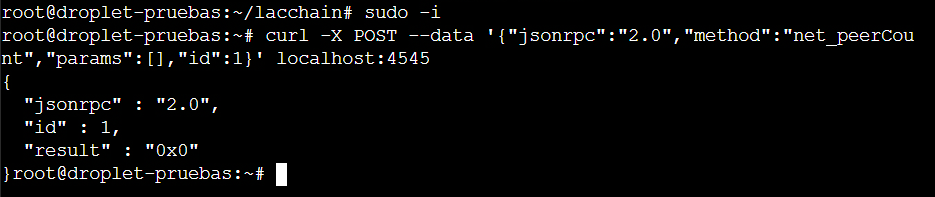
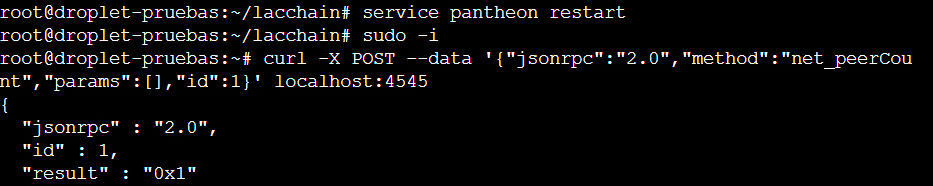
Despliege-de-nodo-local-con-Lacchain

diff --git a/README.md b/README.md
@@ -12,8 +12,14 @@
   - [Configuración de nodo](#configuración-de-nodo)
     - [Iniciar nodo](#iniciar-nodo) 
     - [Comprobando conexión](#comprobando-conexión)
+    - [Herramientas de monitoreo](#herramientas-de-monitoreo)
 - [Implementar contratos inteligentes](#implementar-contratos-inteligentes)
-- [Desarrollo con herramienta Firefly](#desarrollo-con-herramienta-firefly)
+  - [Ejecutar el componente de retransmisor](#ejecutar-el-componente-de-retransmisor)
+  - [Truffle como entorno de desarrollo](#truffle-como-entorno-de-desarrollo)
+    - [Compilación de contratos](#compilación-de-contratos)
+    - [Compilación de contratos](#compilación-de-contratos)
+- [Consideraciones para red principal y Firefly](#consideraciones-para-red-principal-y-firefly)
+
 
 
 # Despliege de nodo local con Lacchain
@@ -38,9 +44,13 @@ Para este proceso se tiene en cuenta la Guía oficial de LACNet para Instalar un
 Para esta instalación se requiere Ansible. Ansible es una herramienta open source que automatiza los procesos informáticos para preparar la infraestructura, gestionar la configuración, implementar las aplicaciones y organizar los sistemas, entre otros procedimientos manuales de TI. Es necesario instalar Ansible en un máquina local que realizará la instalación del nodo en una máquina remota.
 
 `$ sudo apt-get update`
+
 `$ sudo apt-get install software-properties-common`
+
 `$ sudo apt-add-repository ppa:ansible/ansible`
+
 `$ sudo apt-get update`
+
 `$ sudo apt-get install ansible`
 
 [![3](https://github.com/rozoandrescamilo/Despliege-de-nodo-local-con-Lacchain/blob/main/img/3.png?raw=true "3")](https://github.com/Despliege-de-nodo-local-con-Lacchain/blob/main/img/3.png?raw=true "3")
@@ -52,6 +62,7 @@ Para esta instalación se requiere Ansible. Ansible es una herramienta open sour
 Para configurar e instalar un nodo LACChain, se debe clonar este repositorio git en la máquina local:
 
 `$ git clone https://github.com/LACNet-Networks/besu-networks`
+
 `$ cd besu-networks/`
 
 [![5](https://github.com/rozoandrescamilo/Despliege-de-nodo-local-con-Lacchain/blob/main/img/5.png?raw=true "5")](https://github.com/Despliege-de-nodo-local-con-Lacchain/blob/main/img/5.png?raw=true "5")
@@ -71,9 +82,13 @@ Se requiere tener acceso SSH a la máquina remota donde va a implementar el nodo
 Hay tres tipos de nodos LACChain ( validator, bootnode y escritor ) que se pueden crear en las redes LACChain orquestadas por LACNet en este momento. Después de clonar el repositorio en la máquina local, crear una copia de “inventory.example" archivar y guardarlo como “inventory". Editar este archivo para agregar una línea para el servidor remoto donde está creando el nuevo nodo. Puede hacerlo con una herramienta gráfica o dentro del shell.
 
 `$ cd besu-networks/`
+
 `$ cp inventory.example inventory`
+
 `$ vi inventory`
+
 `[node]`
+
 `192.168.10.72 node_ip=your.public.node.ip node_name=my_node_name node_email=your@email`
 
 [![7](https://github.com/rozoandrescamilo/Despliege-de-nodo-local-con-Lacchain/blob/main/img/7.png?raw=true "7")](https://github.com/Despliege-de-nodo-local-con-Lacchain/blob/main/img/7.png?raw=true "7")
@@ -117,6 +132,7 @@ Dirección enode registrada:
 Al finalizar todas la tareas con exito se necesita proporcionar la dirección de nodo. Se consígue ejecutando lo siguiente linea:
 
 `$ cd /root/lacchain/data`
+
 `$ cat nodeAddress`
 
 [![10](https://github.com/rozoandrescamilo/Despliege-de-nodo-local-con-Lacchain/blob/main/img/10.png?raw=true "10")](https://github.com/Despliege-de-nodo-local-con-Lacchain/blob/main/img/10.png?raw=true "10")
@@ -146,6 +162,7 @@ Si se necesita reiniciar los servicios, se puede ejecutar los siguientes comando
 Para verificar si el nodo está conectado a la red correctamente. Verifique que el nodo haya establecido las conexiones con los pares:
 
 `$ sudo -i`
+
 `$ curl -X POST --data '{"jsonrpc":"2.0","method":"net_peerCount","params":[],"id":1}' localhost:4545`
 
 
@@ -155,28 +172,194 @@ Ahora puede verificar si el nodo está sincronizando bloques obteniendo el regis
 
 `$ tail -100 /root/lacchain/logs/pantheon_info.log`
 
+[![13](https://github.com/rozoandrescamilo/Despliege-de-nodo-local-con-Lacchain/blob/main/img/13.png?raw=true "13")](https://github.com/Despliege-de-nodo-local-con-Lacchain/blob/main/img/13.png?raw=true "13")
+
+### Herramientas de monitoreo
+
+- **Dashboard de LacChain:** [https://dashboard.lacchain.net/](https://dashboard.lacchain.net/ "https://dashboard.lacchain.net/")
+
+Es un panel de control para LacChain, una iniciativa de código abierto para crear una infraestructura de blockchain para América Latina y el Caribe. En este panel, los usuarios pueden ver información sobre la red LacChain, como la cantidad de nodos, transacciones, estado de la red, y otros datos relevantes. Además, permite a los participantes de la red monitorear y visualizar el rendimiento de la red, y proporciona una interfaz para interactuar con la misma.
+
+[![14](https://github.com/rozoandrescamilo/Despliege-de-nodo-local-con-Lacchain/blob/main/img/14.png?raw=true "14")](https://github.com/Despliege-de-nodo-local-con-Lacchain/blob/main/img/14.png?raw=true "14")
+
+- **Explorador de LacChain:** [https://explorer.lacchain.net/](https://explorer.lacchain.net/ "https://explorer.lacchain.net/")
+
+El explorador de bloques permite a los usuarios ver y rastrear transacciones y otra información en tiempo real en la red de blockchain de LacChain. Con esta herramienta, los usuarios pueden ver detalles sobre las transacciones, incluyendo el momento en que se realizaron, las direcciones de las cuentas implicadas y la cantidad de tokens transferidos.
+
+En resumen, la función del Explorador es proporcionar una vista detallada y en tiempo real de la actividad en la red de blockchain de LacChain.
+
+[![15](https://github.com/rozoandrescamilo/Despliege-de-nodo-local-con-Lacchain/blob/main/img/15.png?raw=true "15")](https://github.com/Despliege-de-nodo-local-con-Lacchain/blob/main/img/15.png?raw=true "15")
+
 # Implementar contratos inteligentes
 
 Para este proceso se tiene en cuenta la Guía oficial de LACNet para Implementar smarts contracts con el nodo escritor desplegado: 
 [https://lacnet.lacchain.net/smart-contracts-overview/](https://lacnet.lacchain.net/smart-contracts-overview/ "https://lacnet.lacchain.net/smart-contracts-overview/")
 
+## Ejecutar el componente de retransmisor
 
-# Desarrollo con herramienta Firefly
+Se inicializa en entorno de trabajo con el siguiente comando y se debe tener configurada la variable WRITER_KEY.
 
-Para este proceso se tiene en cuenta la Guía oficial de LACNet para Desarrollo con la herramienta Firefly: 
-[https://lacnet.lacchain.net/firefly/](https://lacnet.lacchain.net/firefly/ "https://lacnet.lacchain.net/firefly/")
+En caso de que no se tenga la variable WRITER_KEY en el entorno, configure esta variable con el contenido del archivo/lacchain/data/key
 
+`$ env`
 
-
-[![13](https://github.com/rozoandrescamilo/Despliege-de-nodo-local-con-Lacchain/blob/main/img/13.png?raw=true "13")](https://github.com/Despliege-de-nodo-local-con-Lacchain/blob/main/img/13.png?raw=true "13")
-
-[![14](https://github.com/rozoandrescamilo/Despliege-de-nodo-local-con-Lacchain/blob/main/img/14.png?raw=true "14")](https://github.com/Despliege-de-nodo-local-con-Lacchain/blob/main/img/14.png?raw=true "14")
-
-[![15](https://github.com/rozoandrescamilo/Despliege-de-nodo-local-con-Lacchain/blob/main/img/15.png?raw=true "15")](https://github.com/Despliege-de-nodo-local-con-Lacchain/blob/main/img/15.png?raw=true "15")
+`$ export WRITER_KEY=PRIVATE_KEY  //where PRIVATE_KEY is content of /lacchain/data/key`
 
 [![16](https://github.com/rozoandrescamilo/Despliege-de-nodo-local-con-Lacchain/blob/main/img/16.png?raw=true "16")](https://github.com/Despliege-de-nodo-local-con-Lacchain/blob/main/img/16.png?raw=true "16")
 
+Ingresar a la consola del nodo y ejecutar los siguientes comandos:
+
+`cd /root/lacchain/gas-relay-signer`
+
+`systemctl import-environment WRITER_KEY`
+
+`service relaysigner start`
+
 [![17](https://github.com/rozoandrescamilo/Despliege-de-nodo-local-con-Lacchain/blob/main/img/17.png?raw=true "17")](https://github.com/Despliege-de-nodo-local-con-Lacchain/blob/main/img/17.png?raw=true "17")
+
+Verificar que el retransmisor funcione bien:
+
+`cd /root/lacchain/gas-relay-signer/log`
+
+`tail -100 idbServiceLog.log`
+
+Las primeras líneas deberían ser algo como esto:
+
+[![18](https://github.com/rozoandrescamilo/Despliege-de-nodo-local-con-Lacchain/blob/main/img/18.png?raw=true "18")](https://github.com/Despliege-de-nodo-local-con-Lacchain/blob/main/img/18.png?raw=true "18")
+
+Eso significa que el retransmisor está configurado y funciona bien.
+
+## Truffle como entorno de desarrollo
+
+Truffle es un entorno de desarrollo donde puede desarrollar fácilmente contratos inteligentes con su marco de prueba incorporado, compilación e implementación de contratos inteligentes, consola interactiva y muchas más funciones. Hemos creado un proveedor personalizado de código abierto de truffles para trabajar con el nuevo modelo de gas para permitirle usar Truffle en LACChain Networks.
+
+Como primer paso se requiere instalar Truffle:
+
+`npm install -g truffle`
+
+`truffle version`
+
+[![19](https://github.com/rozoandrescamilo/Despliege-de-nodo-local-con-Lacchain/blob/main/img/19.png?raw=true "19")](https://github.com/Despliege-de-nodo-local-con-Lacchain/blob/main/img/19.png?raw=true "19")
+
+[![20](https://github.com/rozoandrescamilo/Despliege-de-nodo-local-con-Lacchain/blob/main/img/20.png?raw=true "20")](https://github.com/Despliege-de-nodo-local-con-Lacchain/blob/main/img/20.png?raw=true "20")
+
+Se debe crear la carpeta de proyecto, por ejemplo MyDapp.
+
+`mkdir MyDapp`
+
+`cd MyDapp`
+
+Para iniciar el servicio de truffle se ejecuta el siguiente comando en el directorio MyApp:
+
+`truffle init`
+
+[![21](https://github.com/rozoandrescamilo/Despliege-de-nodo-local-con-Lacchain/blob/main/img/21.png?raw=true "21")](https://github.com/Despliege-de-nodo-local-con-Lacchain/blob/main/img/21.png?raw=true "21")
+
+Este comando creará un proyecto de truffle nuevo. Después de hacerlo, debe tener los siguientes archivos y carpetas:
+
+contracts/: Directorio para contratos de Solidity
+migrations/: Directorio para implementación con scriptable
+test/: Directorio para archivos de prueba para probar su aplicación y contratos
+truffle-config.js: archivo de configuración de truffle
+
+### Compilación de contratos
+
+Para iniciar se crea un contrato inteligente muy simple llamado MyContract.sol y almacenarlo en la carpeta de contratos. Todos los contratos inteligentes que se creen deben almacenarse allí. 
+
+Este contrato inteligente contendrá código tan simple como este:
+
+- Básicamente, nuestro contrato inteligente tiene una variable llamada menssage, que contiene un pequeño mensaje que se inicializa como First Smart Contract. También tenemos dos funciones que pueden establecer u obtener la variable message.
+
+[![22](https://github.com/rozoandrescamilo/Despliege-de-nodo-local-con-Lacchain/blob/main/img/22.png?raw=true "22")](https://github.com/Despliege-de-nodo-local-con-Lacchain/blob/main/img/22.png?raw=true "22")
+
+[![23](https://github.com/rozoandrescamilo/Despliege-de-nodo-local-con-Lacchain/blob/main/img/23.png?raw=true "23")](https://github.com/Despliege-de-nodo-local-con-Lacchain/blob/main/img/23.png?raw=true "23")
+
+Para compilar el contrato inteligente, se ejecuta el comando:
+
+`truffle compile`
+
+[![24](https://github.com/rozoandrescamilo/Despliege-de-nodo-local-con-Lacchain/blob/main/img/24.png?raw=true "24")](https://github.com/Despliege-de-nodo-local-con-Lacchain/blob/main/img/24.png?raw=true "24")
+
+Se requiere instalar el gas-model-provider de truffle según Using Hyperledger Besu with Truffle para poder desplegar contratos y enviar transacciones con truffle:
+
+`npm install -g @lacchain/truffle-gas-model-provider`
+
+[![25](https://github.com/rozoandrescamilo/Despliege-de-nodo-local-con-Lacchain/blob/main/img/25.png?raw=true "25")](https://github.com/Despliege-de-nodo-local-con-Lacchain/blob/main/img/25.png?raw=true "25")
+
+Ahora, elimine el archivo "1_initial_migrations.js" y cree un nuevo archivo en el directorio de migraciones. Crea un nuevo archivo llamado 1_deploy_contracts.js, y escribe el siguiente código:
+
+[![26](https://github.com/rozoandrescamilo/Despliege-de-nodo-local-con-Lacchain/blob/main/img/26.png?raw=true "26")](https://github.com/Despliege-de-nodo-local-con-Lacchain/blob/main/img/26.png?raw=true "26")
+
+A continuación, dado que [LACChain Networks requiere incluir dos parámetros(nodeAddress, expiration)](link), es necesario añadirlos como parámetros a la ABI del contrato. Por favor, añada estos dos parámetros como entradas en la función constructora.
+
+[![27](https://github.com/rozoandrescamilo/Despliege-de-nodo-local-con-Lacchain/blob/main/img/27.png?raw=true "27")](https://github.com/Despliege-de-nodo-local-con-Lacchain/blob/main/img/27.png?raw=true "27")
+
+A continuación, debemos editar la configuración de Truffle (truffle-config.js).
+
+Para describir brevemente las partes que componen la configuración:
+
+- networks: Contendrá la configuración de nuestro cliente Ethereum donde desplegaremos nuestros contratos
+- compilers: Contendrá la configuración del compilador Solc
+
+Se debe escribir la clave privada, el nodo IP de la dirección de red y el puerto RPC en la parte de redes:
+
+[![28](https://github.com/rozoandrescamilo/Despliege-de-nodo-local-con-Lacchain/blob/main/img/28.png?raw=true "28")](https://github.com/Despliege-de-nodo-local-con-Lacchain/blob/main/img/28.png?raw=true "28")
+
+Finalmente se obtiene el informe de despliegue donde se puede ver el contrato de dirección similar al siguiente usando el comando:
+
+`truffle migrate -network lacchain`
+
+```
+Deploying 'MyDapp'
+--------------------
+transaction hash:0x31d91fa2524953e49cfc4c433ac939b56df8d9371fdde74c56a75634efcf823d
+Blocks: 0            Seconds: 0
+contract address:    0xFA3F403BeC6D3dd2eF9008cf8D21e3CA0FD1B9C4
+block number:        4006082
+block timestamp:     1574190784
+account:             0xbcEda2Ba9aF65c18C7992849C312d1Db77cF008E
+balance:             0
+gas used:            340697
+gas price:           0 gwei
+value sent:          0 ETH
+total cost:          0 ETH
+
+```
+
+# Consideraciones para red principal y Firefly
+
+LACChain Networks son redes blockchain desarrolladas por LACChain Alliance y orquestadas por LACNet. Estas redes están clasificadas como redes públicas de blockchain autorizadas, tal como se define en la norma ISO TC307 WG5 TS23635 y han sido diseñadas con un enfoque especial en América Latina y el Caribe. Como redes públicas de blockchain, las Redes LACChain están abiertas a cualquier entidad en el mundo. Como redes permisionadas, todos los operadores de nodos, excepto los nodos observadores, deben autenticarse y comprometerse a cumplir con la regulación para poder ser permisionados y enviar transacciones o participar en el protocolo de consenso.
+
+Las redes LACChain no tienen costes de transacción, lo que permite la escalabilidad de las aplicaciones. Existen dos tipos de Redes LACChain orquestadas por LACNet, las ProTestnets y las Mainnets. Las ProTestnets distribuyen los recursos necesarios para emitir transacciones de forma equitativa entre todos los nodos escritores y su uso es totalmente gratuito. Las Mainnets tienen un modelo basado en membresías para cubrir los costes del equipo de soporte de LACNet. Las membresías de nivel superior incluyen más tx por segundo y una respuesta más rápida a los tickets de soporte. En la actualidad, las redes LACChain son:
+
+- Mainnet Omega network 
+- Pro-Testnet network 
+
+[![29](https://github.com/rozoandrescamilo/Despliege-de-nodo-local-con-Lacchain/blob/main/img/29.png?raw=true "29")](https://github.com/Despliege-de-nodo-local-con-Lacchain/blob/main/img/29.png?raw=true "29")
+
+Membresias anuales: [https://lacnet.lacchain.net/get-your-membership/](https://lacnet.lacchain.net/get-your-membership/ "https://lacnet.lacchain.net/get-your-membership/")
+
+En cuanto al stack de Firefly, que proporciona herramientas para gestionar transacciones, desplegar contratos inteligentes y APIs, y escalar aplicaciones web3 seguras. Es necesario desplegarlo sobre la Mainnet Omega network, siendo necesario contar con alguna de las membresías para cubrir los costes del equipo de soporte de LACNet.
+
+Para este proceso se tendría de referencia la Guía oficial de LACNet para Desarrollo con la herramienta Firefly: [https://lacnet.lacchain.net/firefly/](https://lacnet.lacchain.net/firefly/ "https://lacnet.lacchain.net/firefly/")
+
+
+
+
+
+
+
+
+
+
+
+
+
+
+
+
+
+
 
 
 
